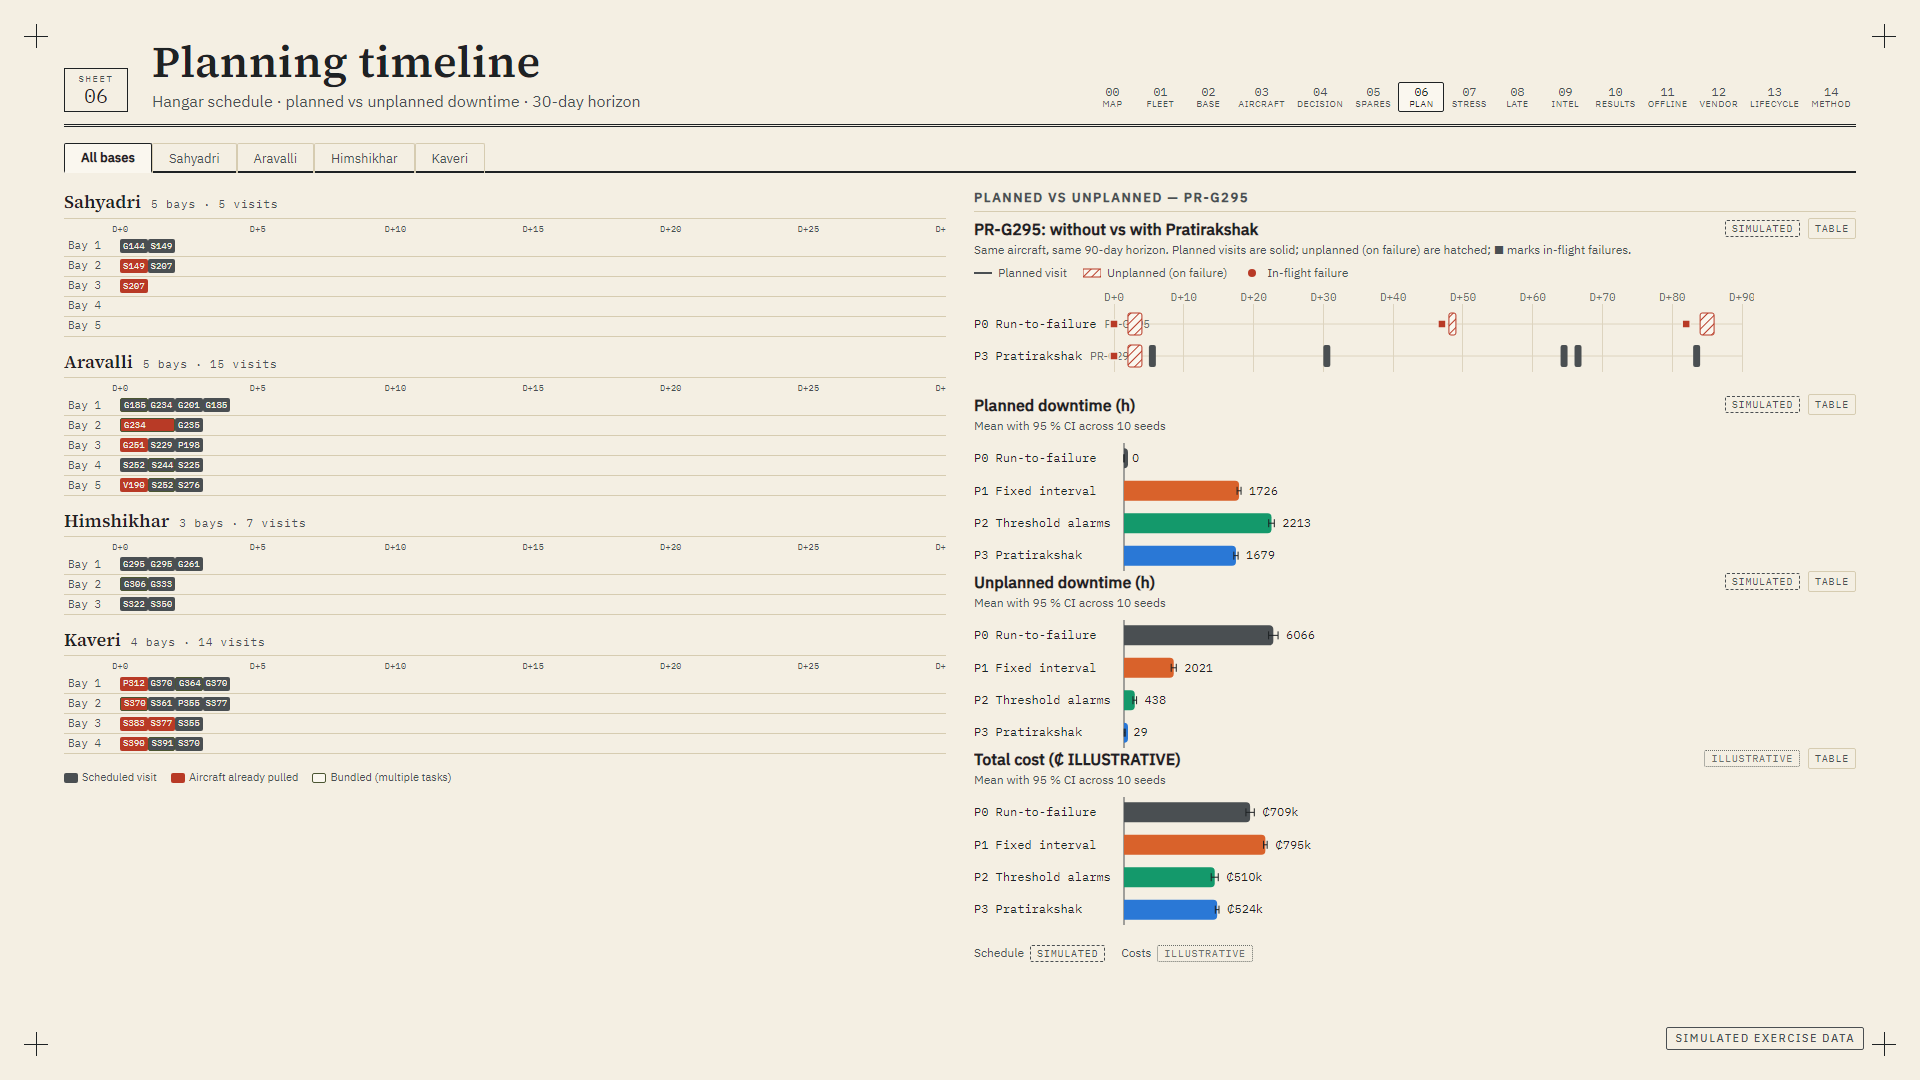
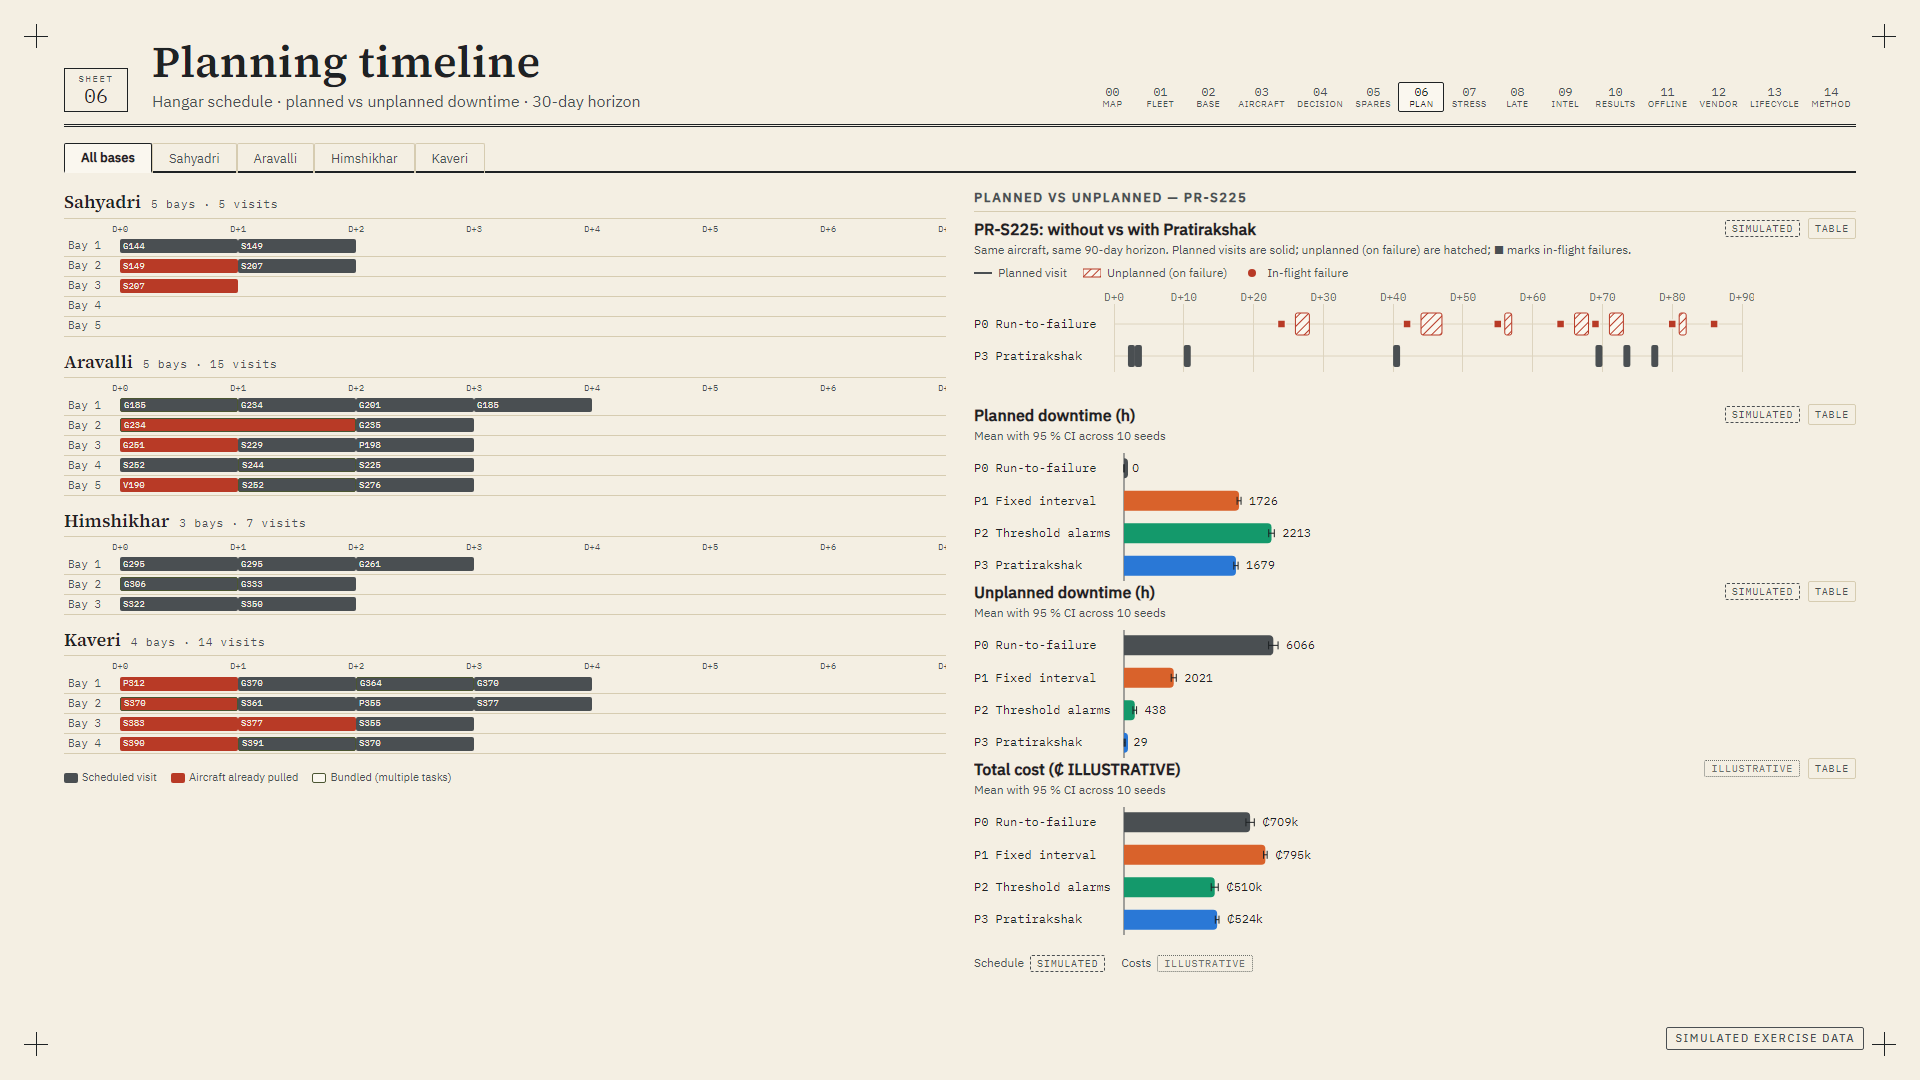
Plan polish: zoom Gantt to occupied days, data-picked comparison tail, no overlapping strip labels, chart spacing

diff --git a/frontend/src/screens/plan/Plan.tsx b/frontend/src/screens/plan/Plan.tsx
@@ -123,7 +123,9 @@ export function Plan() {
 /* ========================== Per-base Gantt ========================== */
 
 function GanttSection({ plan, filteredBases, bases }: { plan: PlanData; filteredBases: string[]; bases: World["bases"] }) {
-  const horizon = plan.horizon_days;
+  // zoom to the days that actually hold visits (the solver front-loads work), not the full horizon
+  const horizon = Math.min(plan.horizon_days, Math.max(7, Math.ceil(Math.max(0, ...plan.visits.map((v) => v.end))) + 1));
+  const tickStep = horizon <= 10 ? 1 : 5;
   const visitsByBase = useMemo(() => {
     const m: Record<string, PlanVisit[]> = {};
     for (const v of plan.visits) {
@@ -152,7 +154,7 @@ function GanttSection({ plan, filteredBases, bases }: { plan: PlanData; filtered
               <div className={p.ganttDayRow}>
                 <span />
                 <div className={p.ganttDays}>
-                  {Array.from({ length: Math.floor(horizon / 5) + 1 }, (_, i) => i * 5).map((d) => (
+                  {Array.from({ length: Math.floor(horizon / tickStep) + 1 }, (_, i) => i * tickStep).map((d) => (
                     <span key={d} className={p.ganttDayTick} style={{ left: `${(d / horizon) * 100}%` }}>
                       D+{d}
                     </span>
@@ -218,11 +220,18 @@ function GanttSection({ plan, filteredBases, bases }: { plan: PlanData; filtered
 
 /* ========================== Planned vs Unplanned Timeline ========================== */
 
-/** Pick PR-G295: has in-flight failures under P0 but planned visits under P3. */
-const TIMELINE_TAIL = "PR-G295";
+/** The tail with the most in-flight failures under P0 and no unplanned visit under P3 — the clearest before/after. */
+function pickTail(demo: DemoData): string {
+  const p0 = demo.runs.P0?.events ?? [], p3 = demo.runs.P3?.events ?? [];
+  const bad = new Set(p3.filter((e) => e.kind === "visit_start" && !e.planned).map((e) => e.tail));
+  const score = new Map<string, number>();
+  for (const e of p0) if (e.kind === "failure" && e.in_flight && !bad.has(e.tail)) score.set(e.tail, (score.get(e.tail) ?? 0) + 1);
+  return [...score.entries()].sort((a, b) => b[1] - a[1])[0]?.[0] ?? "PR-G295";
+}
 
 function TimelineComparison({ demo }: { demo: DemoData }) {
   const horizon = 90; // demo events span 90 days; the plan is the first 30
+  const TIMELINE_TAIL = useMemo(() => pickTail(demo), [demo]);
 
   const makeBlocks = (events: DemoEvent[], tail: string) => {
     const blocks: { start: number; end: number; kind: "planned" | "unplanned"; label?: string }[] = [];
@@ -269,8 +278,8 @@ function TimelineComparison({ demo }: { demo: DemoData }) {
       >
         <TimelineStrips
           rows={[
-            { label: "P0 Run-to-failure", sub: TIMELINE_TAIL, blocks: p0.blocks, markers: p0.markers },
-            { label: "P3 Pratirakshak", sub: TIMELINE_TAIL, blocks: p3.blocks, markers: p3.markers },
+            { label: "P0 Run-to-failure", blocks: p0.blocks, markers: p0.markers },
+            { label: "P3 Pratirakshak", blocks: p3.blocks, markers: p3.markers },
           ]}
           days={horizon}
           width={780}

diff --git a/frontend/src/screens/plan/Plan.module.css b/frontend/src/screens/plan/Plan.module.css
@@ -42,7 +42,7 @@
   text-transform: uppercase; color: var(--ink-soft); border-bottom: 1px solid var(--fold); padding-bottom: 3px; margin-bottom: 6px; }
 
 /* BarCI comparison */
-.barSection { flex: 0 0 auto; }
+.barSection { flex: 0 0 auto; margin-top: 10px; display: flex; flex-direction: column; gap: 14px; }
 
 /* Visit tooltip */
 .visitTip { position: fixed; z-index: 100; background: var(--paper-hi); border: 1px solid var(--ink);
